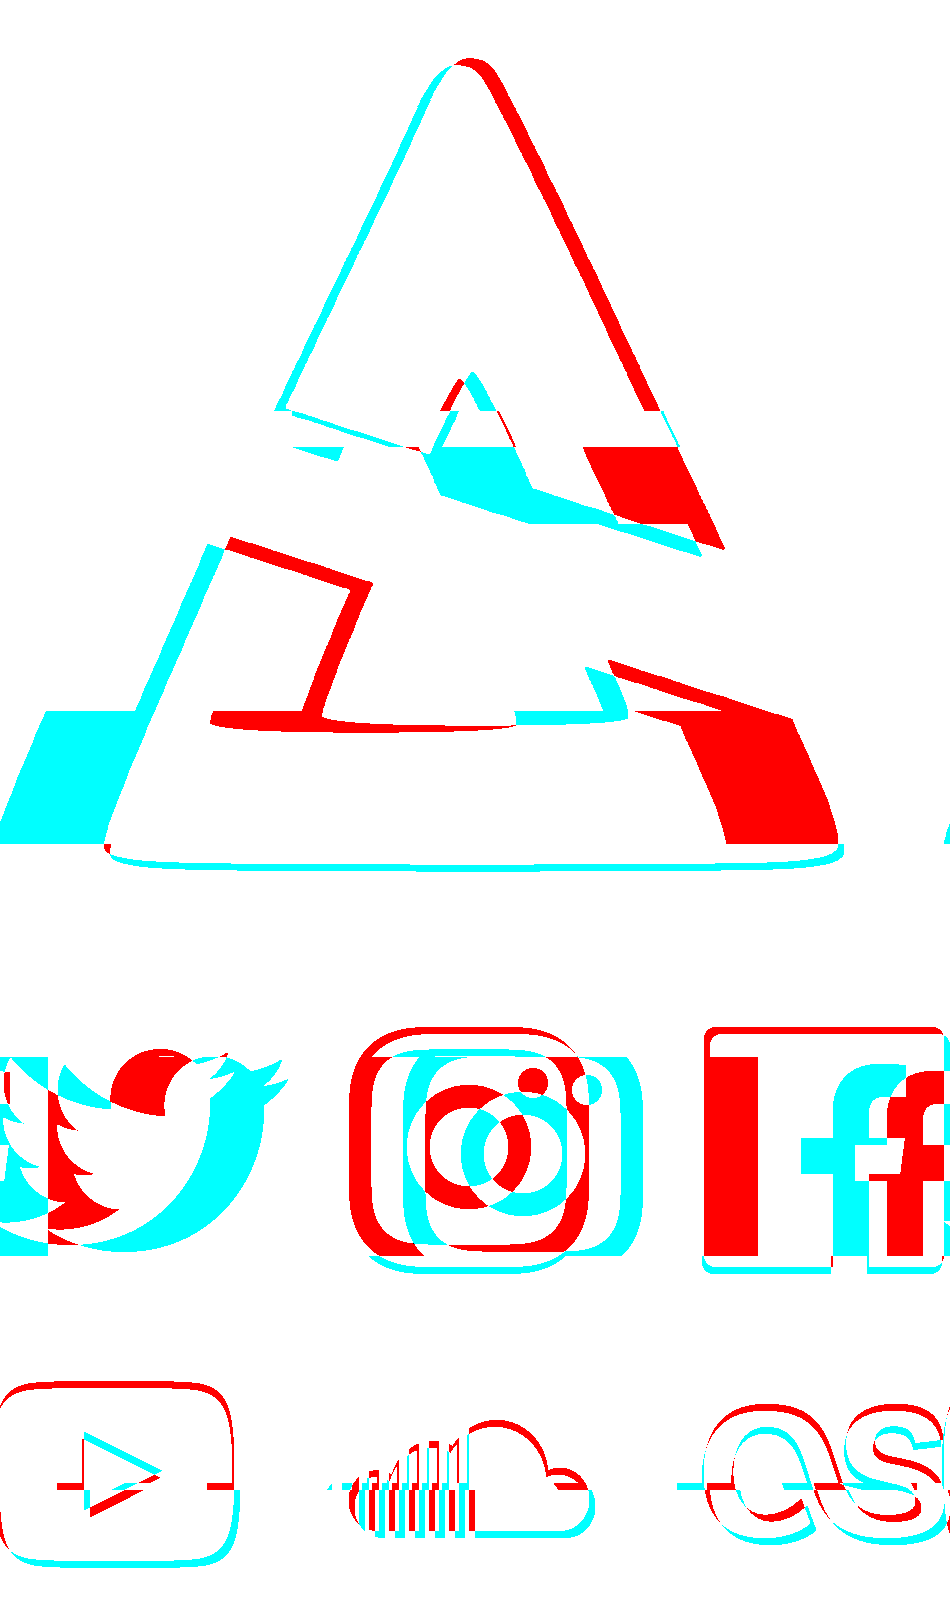
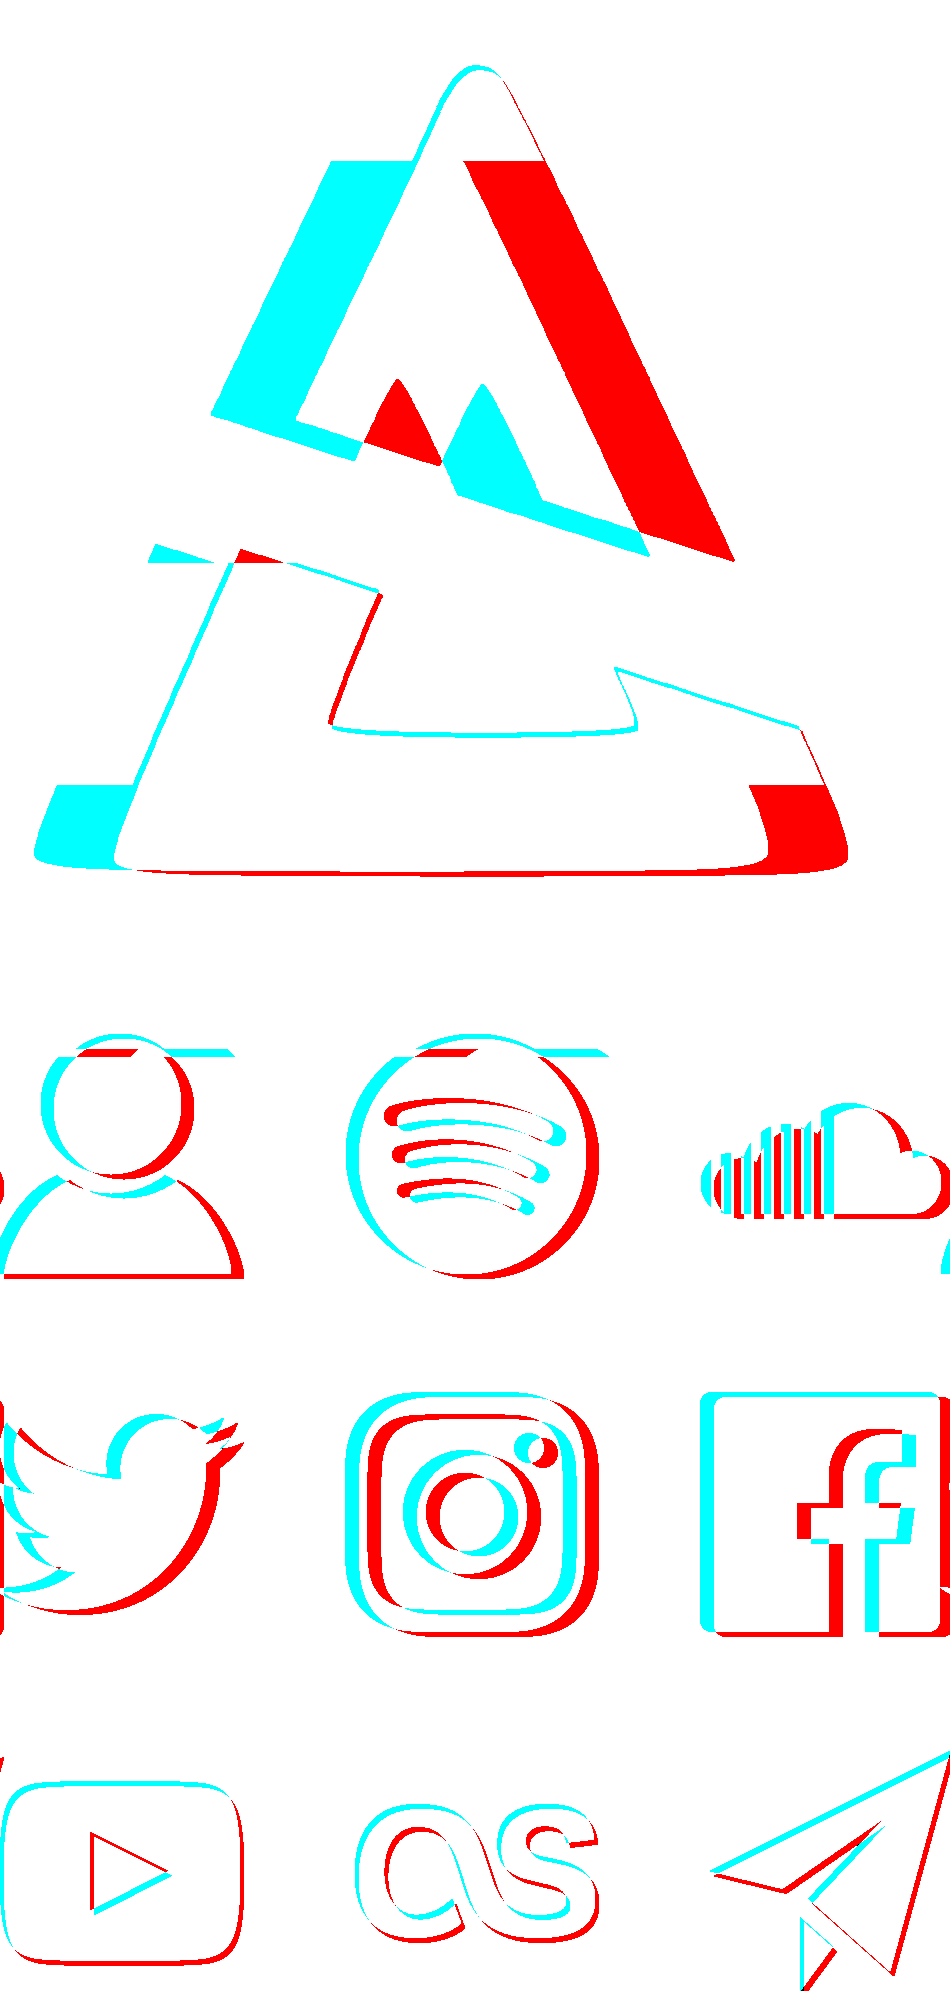
Updated image map (mail included + link to about page), /what > /hi

diff --git a/index.html b/index.html
@@ -99,15 +99,14 @@
             background-position: top center;
             background-attachment: fixed;
             background-size: cover;
-            z-index: -3;
         }
         
         #delta {
             position: fixed;
             width: 100vw;
-            height: 38vh;
+            height: 46vh;
             top: 50vh;
-            margin-top: -19vh;
+            margin-top: -23vh;
         }
         
         #delta>img {
@@ -115,23 +114,6 @@
             height: 100%;
             width: auto;
             margin: 0 auto;
-            z-index: 3;
-        }
-        
-        #mail {
-            position: fixed;
-            width: 100vw;
-            height: 5.5vh;
-            bottom: 7.5vh;
-            pointer-events: none;
-        }
-        
-        #mail>img {
-            display: block;
-            height: 100%;
-            width: auto;
-            margin: 0 7.5vh 0 auto;
-            pointer-events: all;
         }
         
         #spotify {
@@ -145,18 +127,8 @@
         
         @media only screen and (max-height: 570px) {
             #delta {
-                height: 216.59px;
-                margin-top: -108.295px;
-            }
-            #mail {
-                height: 31.34px;
-                bottom: 42.75px;
-            }
-            #mail>img {
-                display: block;
-                height: 100%;
-                width: auto;
-                margin: 0 42.75px 0 auto;
+                height: 262.66px;
+                margin-top: -131.33px;
             }
             #spotify {
                 top: 42.75px;
@@ -166,27 +138,20 @@
         
         @media only screen and (min-width: 327px) and (max-width: 430px) and (max-height: 399px) {
             #delta>img {
-                margin: 0 150.625px 0 auto;
+                margin: 0 152.844px 0 auto;
             }
         }
         
-        @media only screen and (min-width: 266px) and (max-width: 327px) and (max-height: 399px) {
+        @media only screen and (min-width: 300px) and (max-width: 327px) and (max-height: 399px) {
             #delta>img {
-                margin: 0 auto 0 48.625px;
+                margin: 0 auto 0 49.844px;
             }
         }
         
-        @media only screen and (max-width: 299px) and (max-height: 399px) {
+        @media only screen and (max-width: 299px) and (max-height: 449px) {
             #spotify {
                 opacity: 0;
                 pointer-events: none;
-                cursor: default;
-            }
-        }
-        
-        @media only screen and (max-width: 265px) and (max-height: 399px) {
-            #mail {
-                opacity: 0;
                 cursor: default;
             }
         }
@@ -223,19 +188,16 @@
         <div id="delta">
             <img src="/imagemap.gif" usemap="#map">
             <map name="map">
-                <area shape="rect" coords="689, 1386, 950, 1569" href="https://last.fm/user/wolflambert" target="_blank" alt="Last.fm" title="Last.fm">
-                <area shape="rect" coords="327, 1402, 620, 1564" href="https://soundcloud.com/wolflambert" target="_blank" alt="Soundcloud" title="Soundcloud">
-                <area shape="rect" coords="0, 1366, 268, 1591" href="https://youtube.com/wolflambert" target="_blank" alt="YouTube" title="YouTube">
-                <area shape="rect" coords="683, 1012, 950, 1298" href="https://facebook.com/wolflambert" target="_blank" alt="Facebook" title="Facebook">
-                <area shape="rect" coords="328, 1011, 623, 1297" href="https://instagram.com/wolflambert" target="_blank" alt="Instagram" title="Instagram">
-                <area shape="rect" coords="0, 1028, 268, 1289" href="https://twitter.com/wolflambert" target="_blank" alt="Twitter" title="Twitter">
-                <area shape="rect" coords="25, 25, 925, 925" href="https://wolflambert.bandcamp.com/" alt="Bandcamp" title="Bandcamp">
-            </map>
-        </div>
-        <div id="mail">
-            <img src="/mail.gif" usemap="#mail">
-            <map name="mail">
-                <area shape="rect" coords="0, 0, 240, 240" href="mailto:hi@wolflambert.space" alt="Mail" title="Mail">
+                <area shape="rect" coords="0, 0, 950, 950" href="https://wolflambert.bandcamp.com/" alt="Bandcamp" title="Bandcamp">
+                <area shape="rect" coords="0, 1034, 240, 1274" href="/hi" alt="About" title="About">
+                <area shape="rect" coords="355, 1034, 595, 1274" href="spotify:artist:4SEJBFjQLVEkHybTLmUZSp" alt="Spotify" title="Spotify">
+                <area shape="rect" coords="710, 1034, 950, 1274" href="https://soundcloud.com/wolflambert" target="_blank" alt="Soundcloud" title="Soundcloud">
+                <area shape="rect" coords="0, 1392, 240, 1632" href="https://twitter.com/wolflambert" target="_blank" alt="Twitter" title="Twitter">
+                <area shape="rect" coords="355, 1392, 595, 1632" href="https://instagram.com/wolflambert" target="_blank" alt="Instagram" title="Instagram">
+                <area shape="rect" coords="710, 1392, 950, 1632" href="https://facebook.com/wolflambert" target="_blank" alt="Facebook" title="Facebook">
+                <area shape="rect" coords="0, 1750, 240, 1990" href="https://youtube.com/wolflambert" target="_blank" alt="YouTube" title="YouTube">
+                <area shape="rect" coords="355, 1750, 595, 1990" href="https://last.fm/user/wolflambert" target="_blank" alt="Last.fm" title="Last.fm">
+                <area shape="rect" coords="710, 1750, 950, 1990" href="mailto:hi@wolflambert.space" alt="Mail" title="Mail">
             </map>
         </div>
         <div id="glitch"></div>
